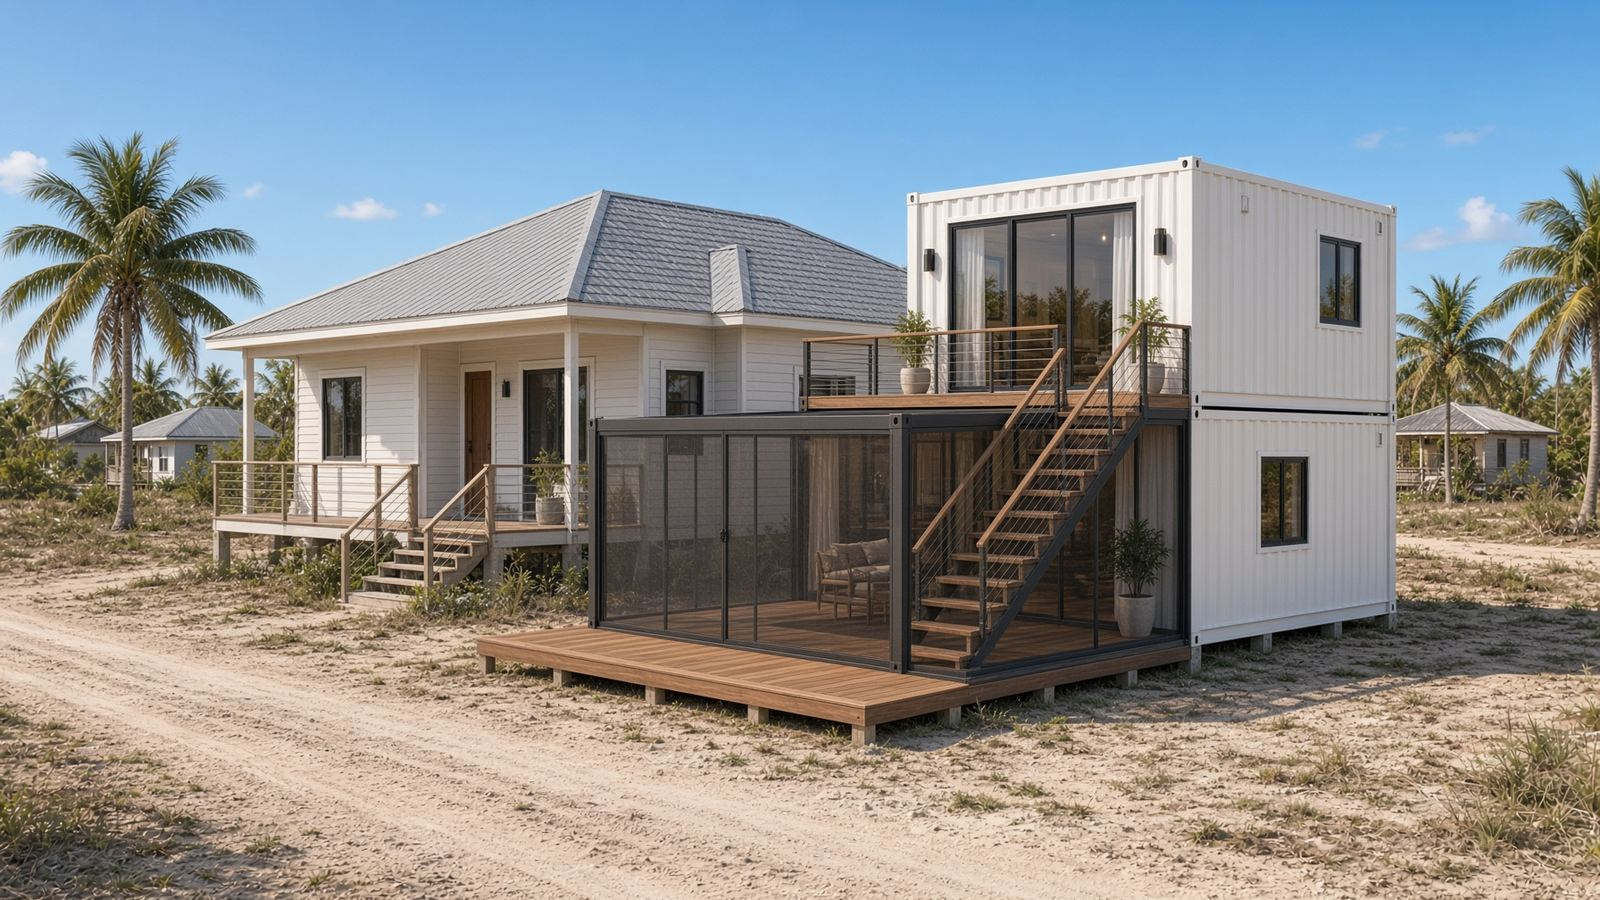
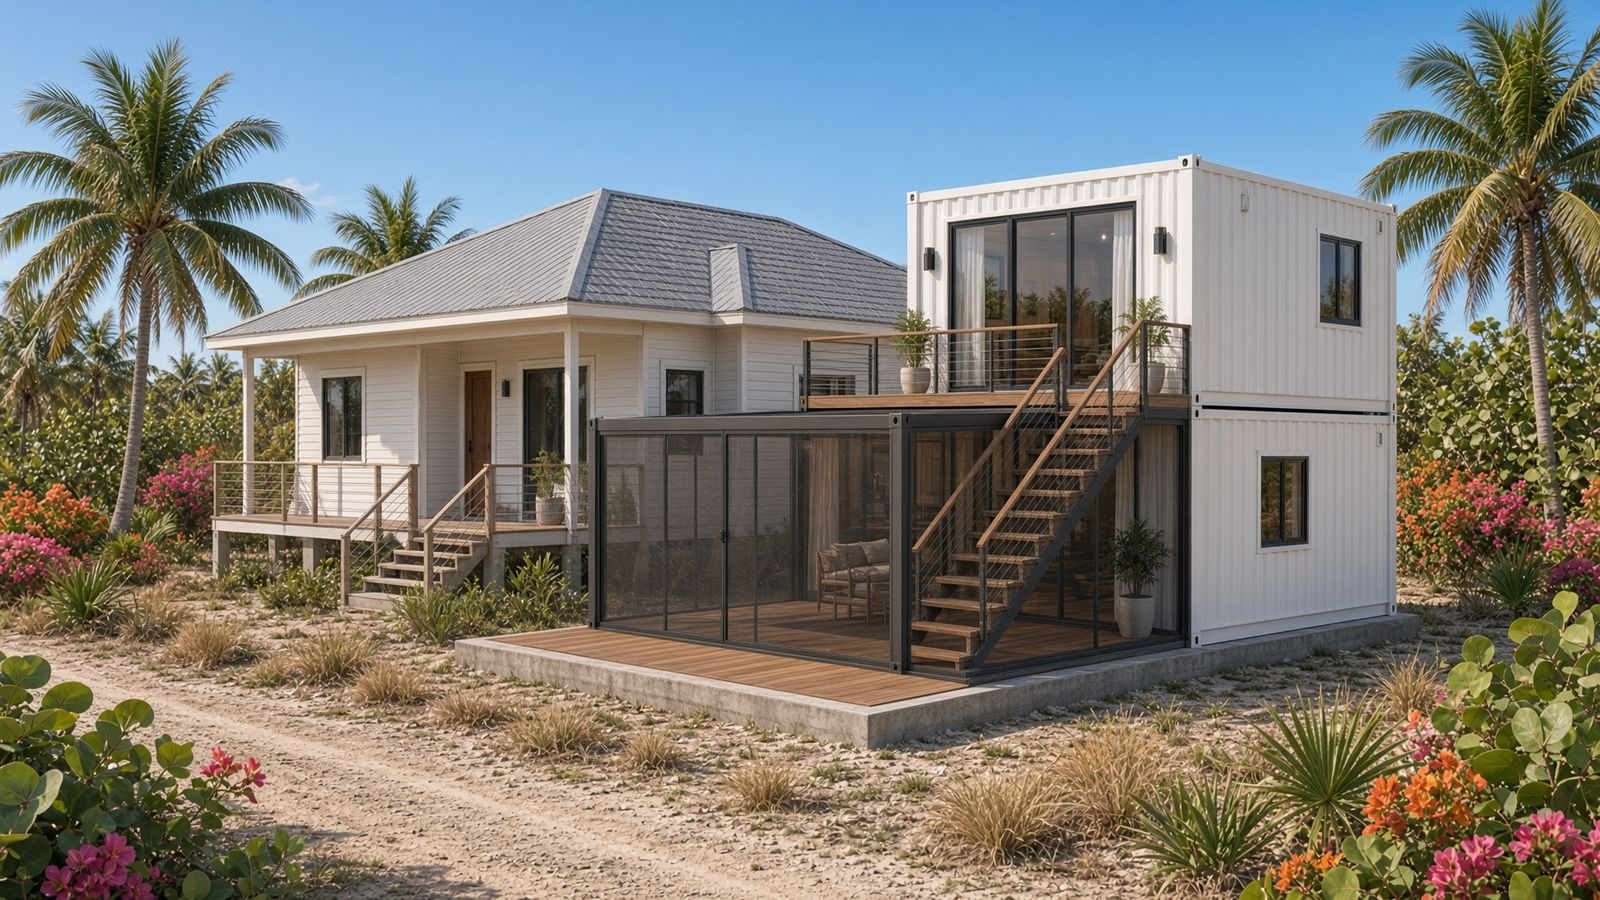
Better inland hero on a concrete slab with Belize landscaping; clean BOQ.

diff --git a/index.html b/index.html
@@ -36,14 +36,14 @@
         <div><strong>2 bed / 1 bath</strong><span>Two-story gable · 646 sf</span></div>
         <div><strong>400 sf deck</strong><span>Screened · looks at Lot 115</span></div>
         <div><strong>PT200009</strong><span>Ships in 1 × 40HQ</span></div>
-        <div><strong>$205,765</strong><span>All-in furnished, USD</span></div>
+        <div><strong>$192,965</strong><span>All-in furnished, USD</span></div>
       </div>
     </section>
 
     <section id="home" class="wrap" style="padding-top:0">
       <figure class="hero-img">
         <img src="images/home.jpg" alt="Two-story salt-white gable home inland of a dirt road, looking at Lot 115" />
-        <figcaption>Outside · Lot 127 · dry inland lot, dirt road, Lot 115 across the street</figcaption>
+        <figcaption>Outside · Lot 127 · concrete slab, palms, dirt road, Lot 115 across the street</figcaption>
       </figure>
       <figure class="wide">
         <img src="images/pair.jpg" alt="Dirt road between Lot 127 inland and Lot 115 on the canal" />
@@ -76,31 +76,31 @@
       <div class="styles">
         <figure class="picked">
           <img src="images/pt200009.jpg" alt="PT200009 two-story gable inland" />
-          <figcaption><strong>PT200009 · Two-story gable</strong>2BR / 1BA · 646 sf<br />$205,765 · featured</figcaption>
+          <figcaption><strong>PT200009 · Two-story gable</strong>2BR / 1BA · 646 sf<br />$192,965 · featured</figcaption>
         </figure>
         <figure>
           <img src="images/pt211222.jpg" alt="PT211222 hip roof inland" />
-          <figcaption><strong>PT211222 · Hip roof</strong>2BR / 2BA · 581 sf<br />$196,835</figcaption>
+          <figcaption><strong>PT211222 · Hip roof</strong>2BR / 2BA · 581 sf<br />$182,785</figcaption>
         </figure>
         <figure>
           <img src="images/pt220348-2.jpg" alt="PT220348-2 skillion long inland" />
-          <figcaption><strong>PT220348-2 · Skillion long</strong>2BR / 1BA · 635 sf<br />$189,390</figcaption>
+          <figcaption><strong>PT220348-2 · Skillion long</strong>2BR / 1BA · 635 sf<br />$177,715</figcaption>
         </figure>
         <figure>
           <img src="images/pt220348-3.jpg" alt="PT220348-3 skillion terrace inland" />
-          <figcaption><strong>PT220348-3 · Skillion terrace</strong>2BR / 1BA · 473 sf<br />$192,990</figcaption>
+          <figcaption><strong>PT220348-3 · Skillion terrace</strong>2BR / 1BA · 473 sf<br />$180,115</figcaption>
         </figure>
         <figure>
           <img src="images/pt220348-1.jpg" alt="PT220348-1 compact terrace inland" />
-          <figcaption><strong>PT220348-1 · Compact 1BR</strong>1BR / 1BA · 312 sf<br />$178,393</figcaption>
+          <figcaption><strong>PT220348-1 · Compact 1BR</strong>1BR / 1BA · 312 sf<br />$167,918</figcaption>
         </figure>
         <figure>
           <img src="images/pt210223-2.jpg" alt="PT210223-2 carport inland" />
-          <figcaption><strong>PT210223-2 · Carport</strong>2BR / 1BA · 635 sf<br />$194,212</figcaption>
+          <figcaption><strong>PT210223-2 · Carport</strong>2BR / 1BA · 635 sf<br />$182,912</figcaption>
         </figure>
         <figure>
           <img src="images/pt190249.jpg" alt="PT190249 two-story stair inland" />
-          <figcaption><strong>PT190249 · Two-story stair</strong>1BR / 1BA · 646 sf<br />$200,452</figcaption>
+          <figcaption><strong>PT190249 · Two-story stair</strong>1BR / 1BA · 646 sf<br />$185,902</figcaption>
         </figure>
       </div>
     </section>
@@ -122,16 +122,16 @@
     <section id="price" class="wrap" style="padding-top:0">
       <aside class="price">
         <p class="kicker">All-in · PT200009 · furnished</p>
-        <p class="num">$205,765</p>
+        <p class="num">$192,965</p>
         <ul>
-          <li><span>Factory shell unfurnished +50%</span><span>$26,250</span></li>
+          <li><span>Factory shell unfurnished</span><span>$17,500</span></li>
           <li><span>Ocean freight (1 / 40HQ)</span><span>$19,000</span></li>
           <li><span>Inland + duties</span><span>$5,000</span></li>
           <li><span>Slab, excavation, MEP</span><span>$35,000</span></li>
           <li><span>Tie-downs + stack crane</span><span>$6,000</span></li>
           <li><span>Contingency</span><span>$20,000</span></li>
           <li><span>400 sf screened deck + fence</span><span>$33,900</span></li>
-          <li><span>Stack + set labor +30%</span><span>$17,550</span></li>
+          <li><span>Stack + set labor</span><span>$13,500</span></li>
           <li><span>FF&E kit M</span><span>$13,065</span></li>
           <li><span>Fully furnished / install</span><span>$30,000</span></li>
         </ul>
